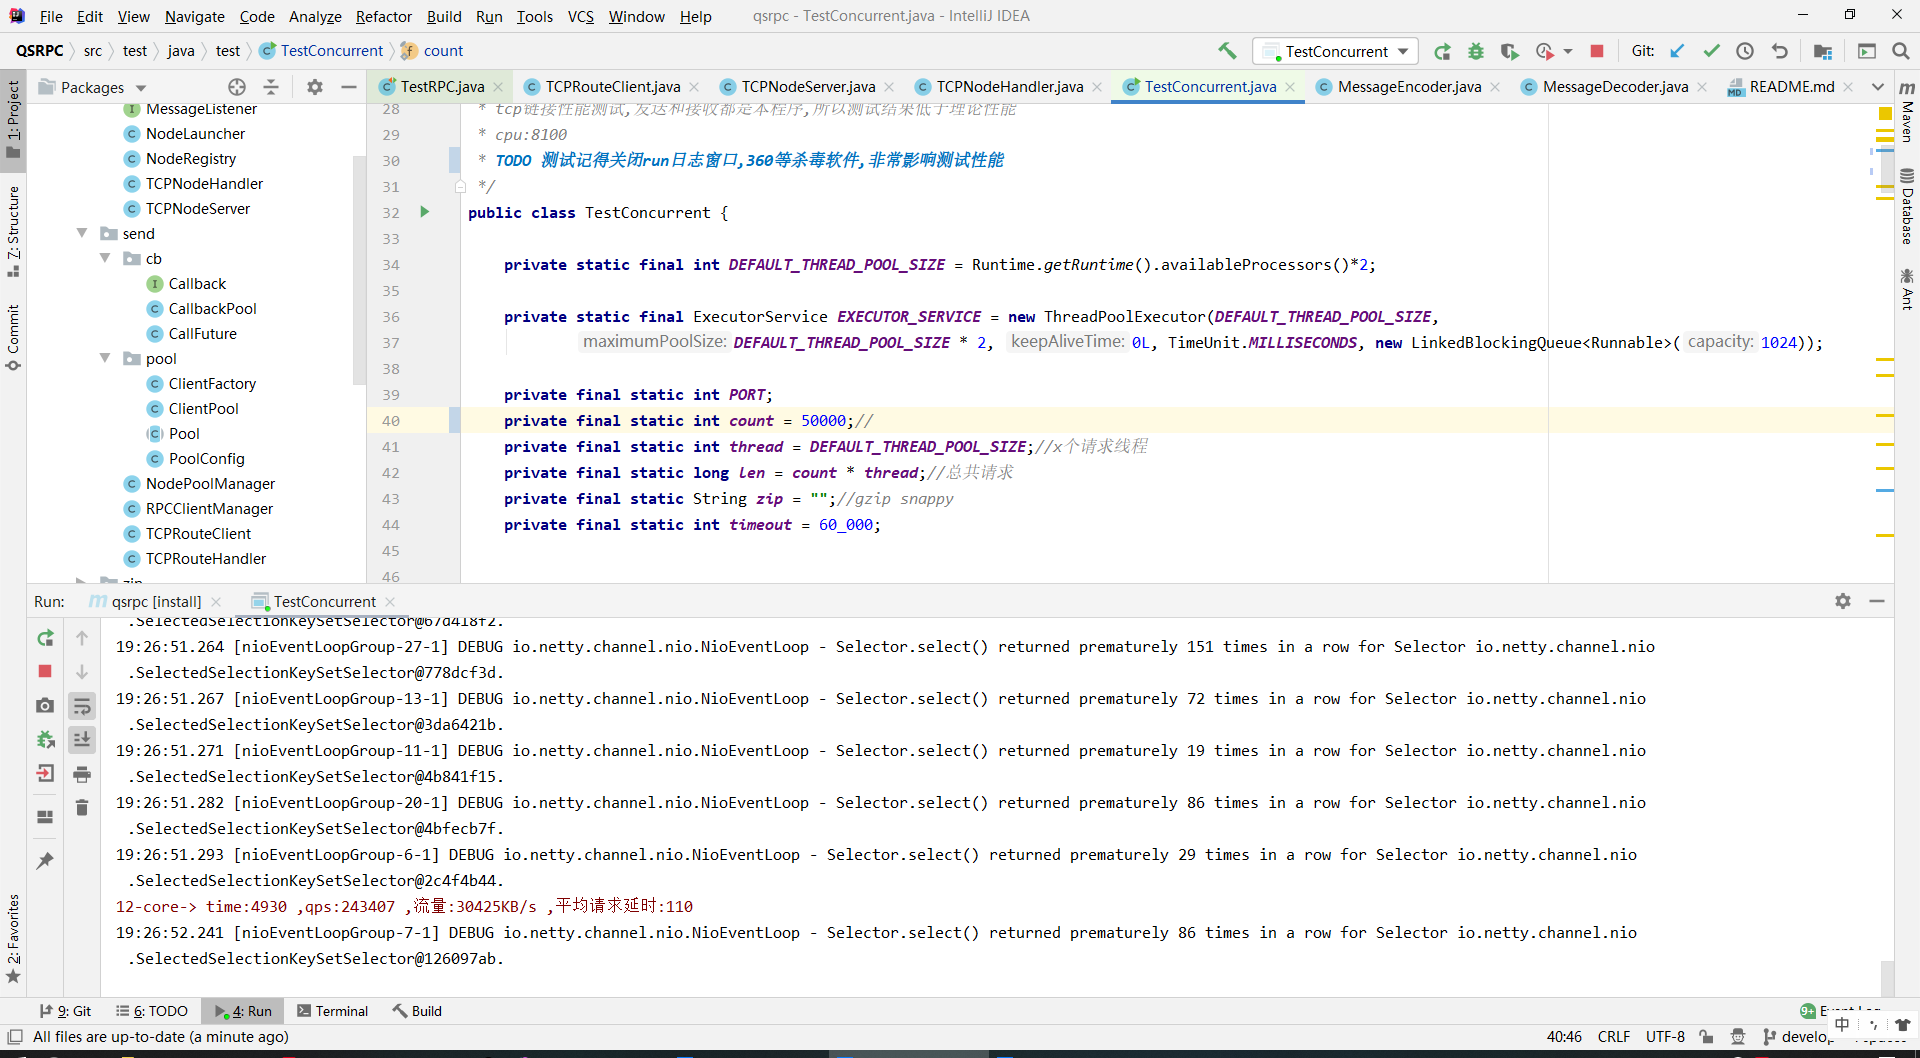
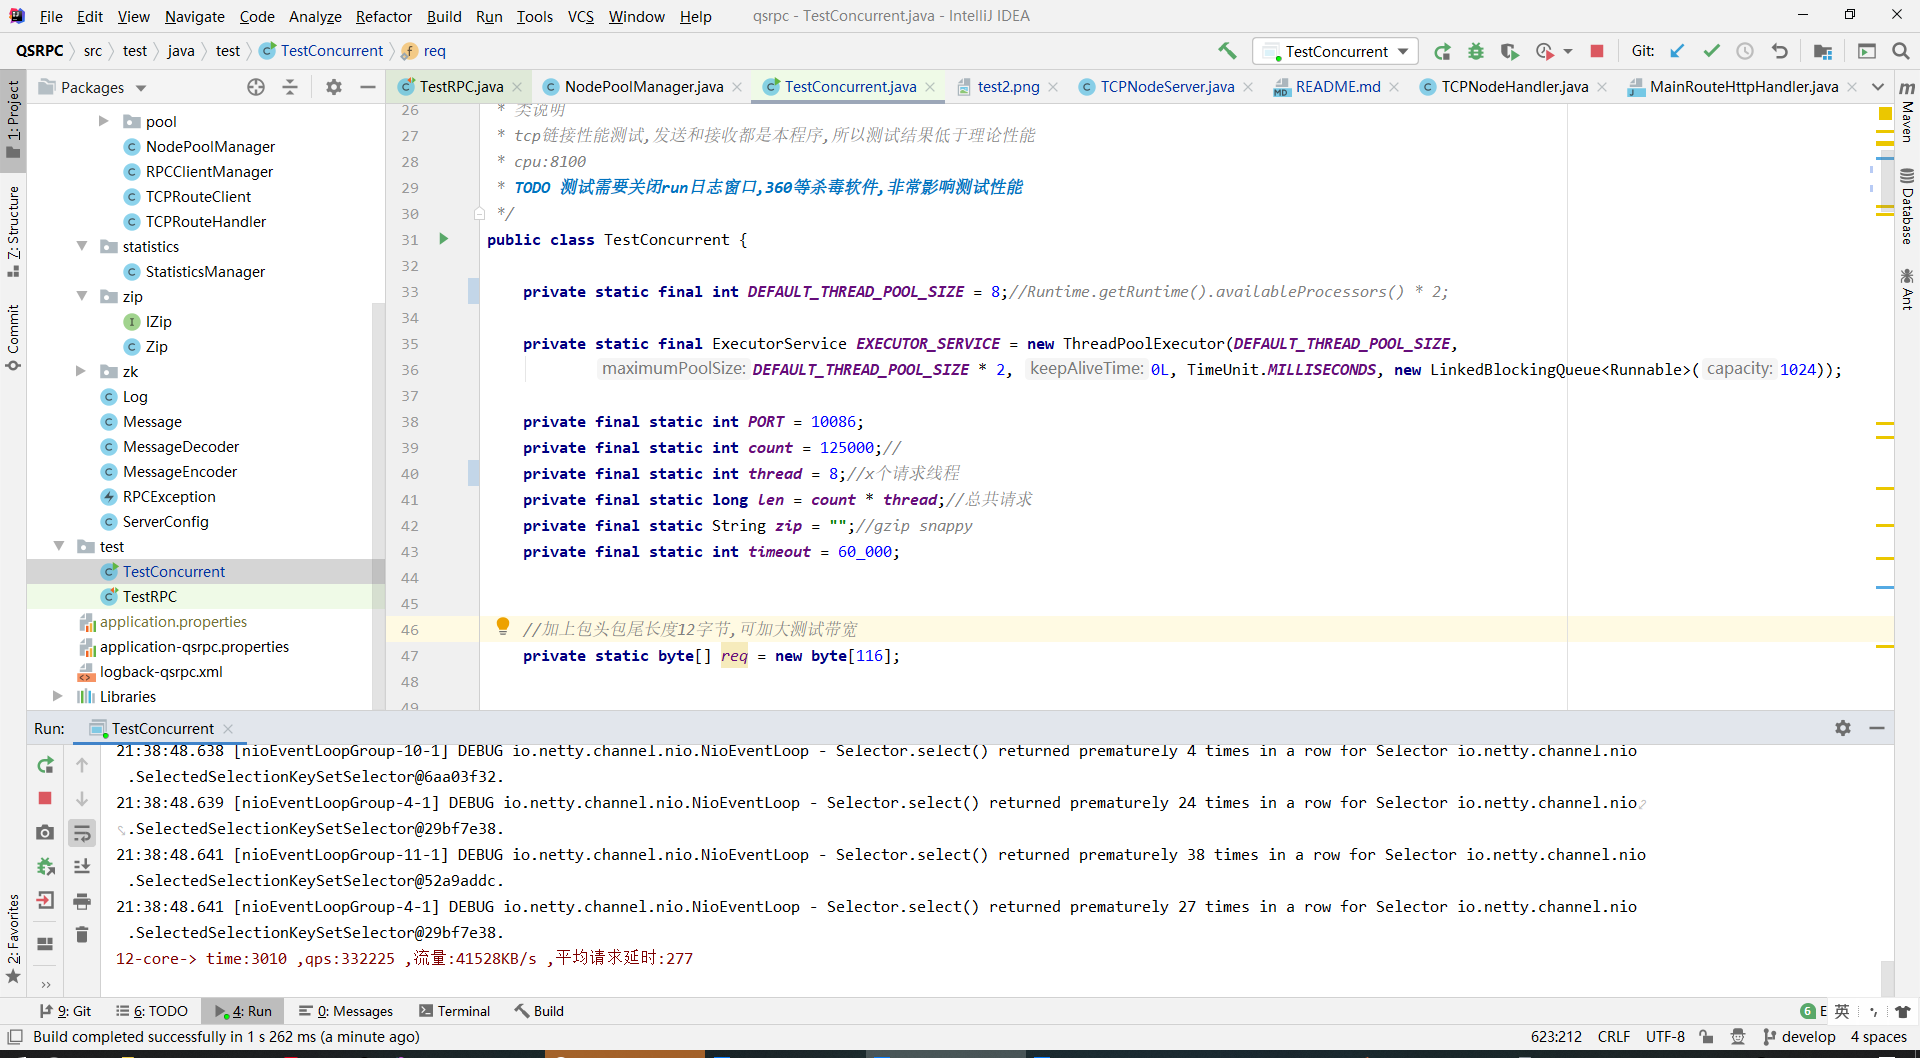
test

diff --git a/src/test/java/test/TestConcurrent.java b/src/test/java/test/TestConcurrent.java
@@ -30,14 +30,14 @@ import java.util.concurrent.*;
  */
 public class TestConcurrent {
 
-    private static final int DEFAULT_THREAD_POOL_SIZE = Runtime.getRuntime().availableProcessors() * 2;
+    private static final int DEFAULT_THREAD_POOL_SIZE = 8;//Runtime.getRuntime().availableProcessors() * 2;
 
     private static final ExecutorService EXECUTOR_SERVICE = new ThreadPoolExecutor(DEFAULT_THREAD_POOL_SIZE,
             DEFAULT_THREAD_POOL_SIZE * 2, 0L, TimeUnit.MILLISECONDS, new LinkedBlockingQueue<Runnable>(1024));
 
     private final static int PORT = 10086;
     private final static int count = 125000;//
-    private final static int thread = DEFAULT_THREAD_POOL_SIZE;//x个请求线程
+    private final static int thread = 8;//x个请求线程
     private final static long len = count * thread;//总共请求
     private final static String zip = "";//gzip snappy
     private final static int timeout = 60_000;
@@ -53,11 +53,6 @@ public class TestConcurrent {
         new TCPNodeServer(info, new MessageListener() {
             @Override
             public byte[] onMessage(Async async, byte[] message) {
-//                try {
-//                    Thread.sleep(1);
-//                } catch (InterruptedException e) {
-//                    e.printStackTrace();
-//                }
                 return message;
             }
         }).start();

diff --git a/src/main/java/org/song/qsrpc/receiver/TCPNodeServer.java b/src/main/java/org/song/qsrpc/receiver/TCPNodeServer.java
@@ -45,7 +45,7 @@ public class TCPNodeServer {
         try {
             ServerBootstrap b = new ServerBootstrap();
             // BACKLOG用于构造服务端套接字ServerSocket对象，标识当服务器请求处理线程全满时，用于临时存放已完成三次握手的请求的队列的最大长度。如果未设置或所设置的值小于1，Java将使用默认值50
-            b.option(ChannelOption.SO_BACKLOG, 1024 * 8);
+            b.option(ChannelOption.SO_BACKLOG, 1024);
             // 是否启用心跳保活机制。在双方TCP套接字建立连接后（即都进入ESTABLISHED状态）如果在两小时内没有数据的通信时，TCP会自动发送一个活动探测数据报文
             b.option(ChannelOption.SO_KEEPALIVE, true);
             // 用于启用或关闭Nagle算法。如果要求高实时性，有数据发送时就马上发送，就将该选项设置为true关闭Nagle算法；如果要减少发送次数减少网络交互，就设置为false等累积一定大小后再发送。默认为false。

diff --git a/README.md b/README.md
@@ -114,7 +114,7 @@ Run [TestConcurrent.java][testjava] (Don't open the console and 360 antivirus et
 |  CPU   | request  | time  |qps  |
 |  ----  | ----  |----  |----  |
 | i3-8100(4-core/4-thread) | 100w(8-thread) |7817ms | 127926  |
-| i7-8700(6-core/12-thread) | 120w(24-thread) |4930ms | 243407  |
+| i7-8700(6-core/12-thread) | 100w(8-thread) |3010ms | 332225  |
 
 在4核自发自收的情况下有12万+的并发数,实际会更高 [测试截图1][testpng] [测试截图2][testpng2]
 
